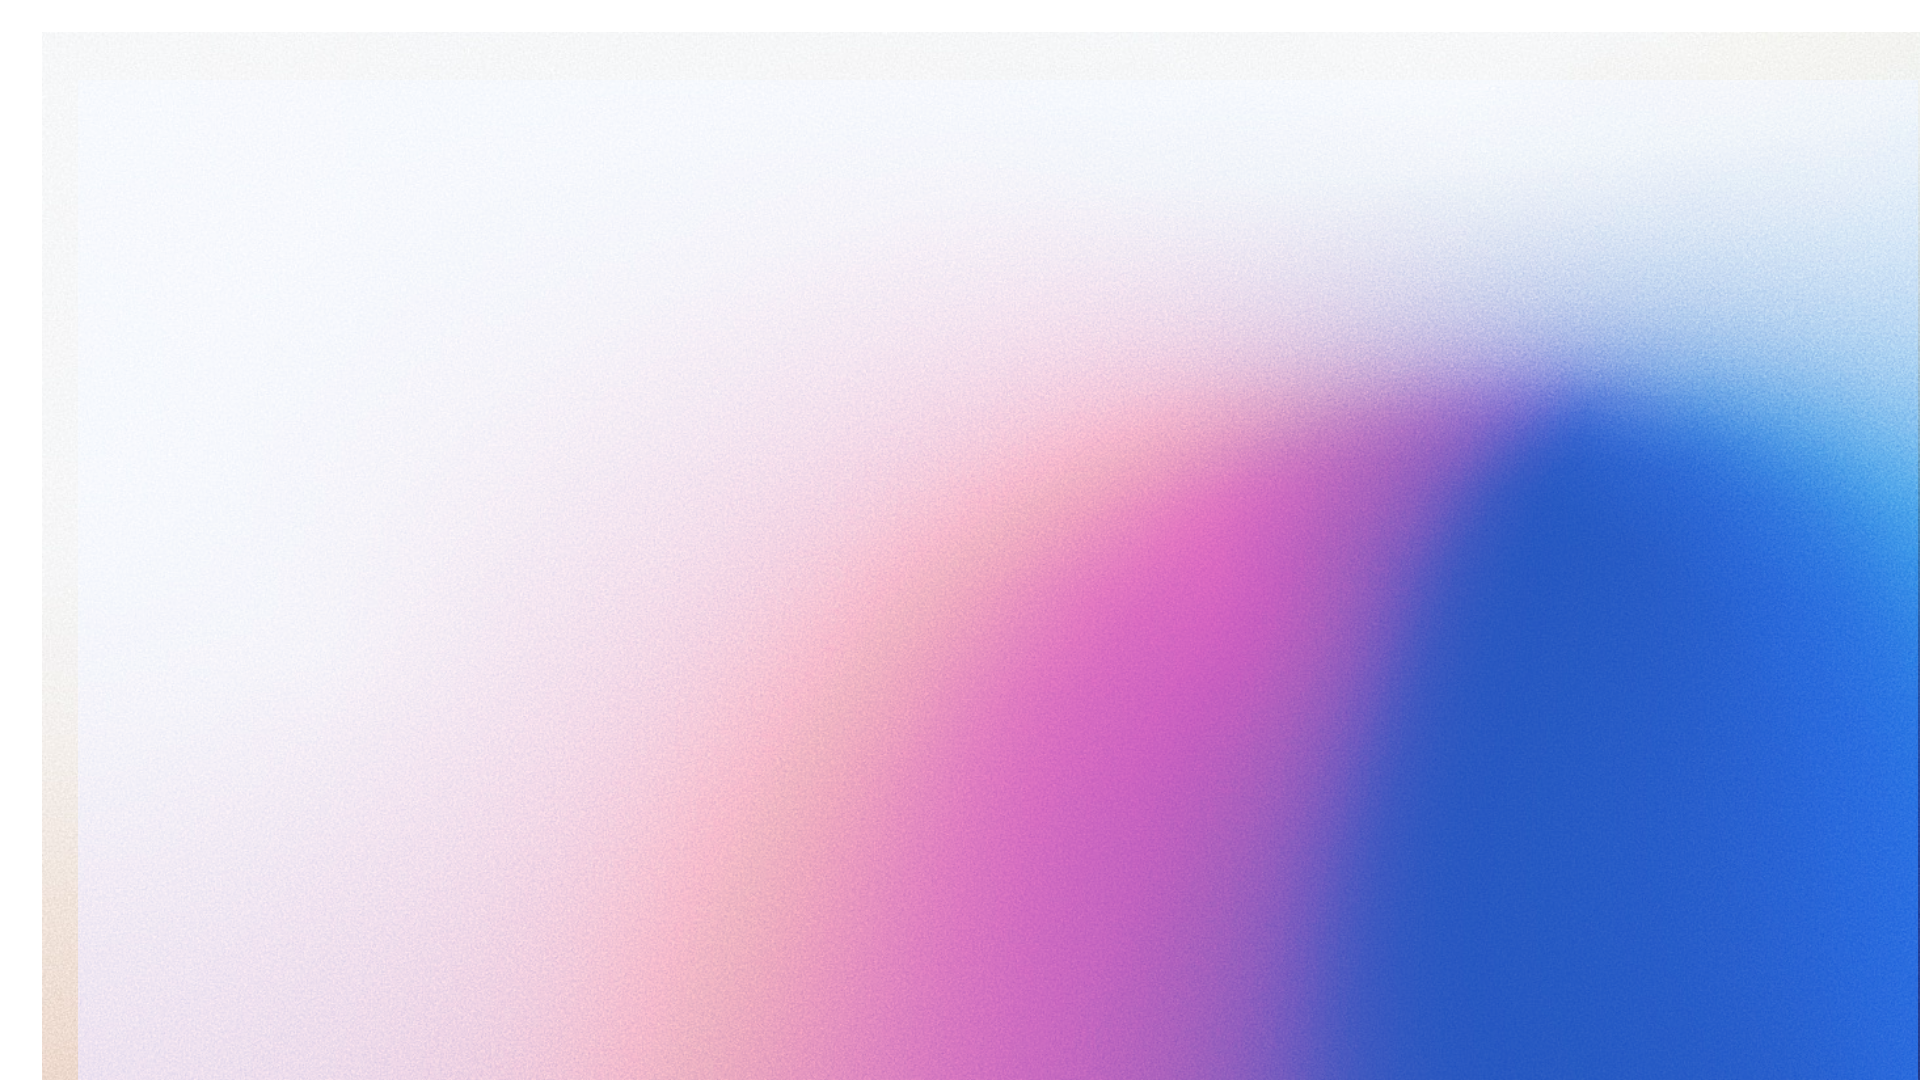
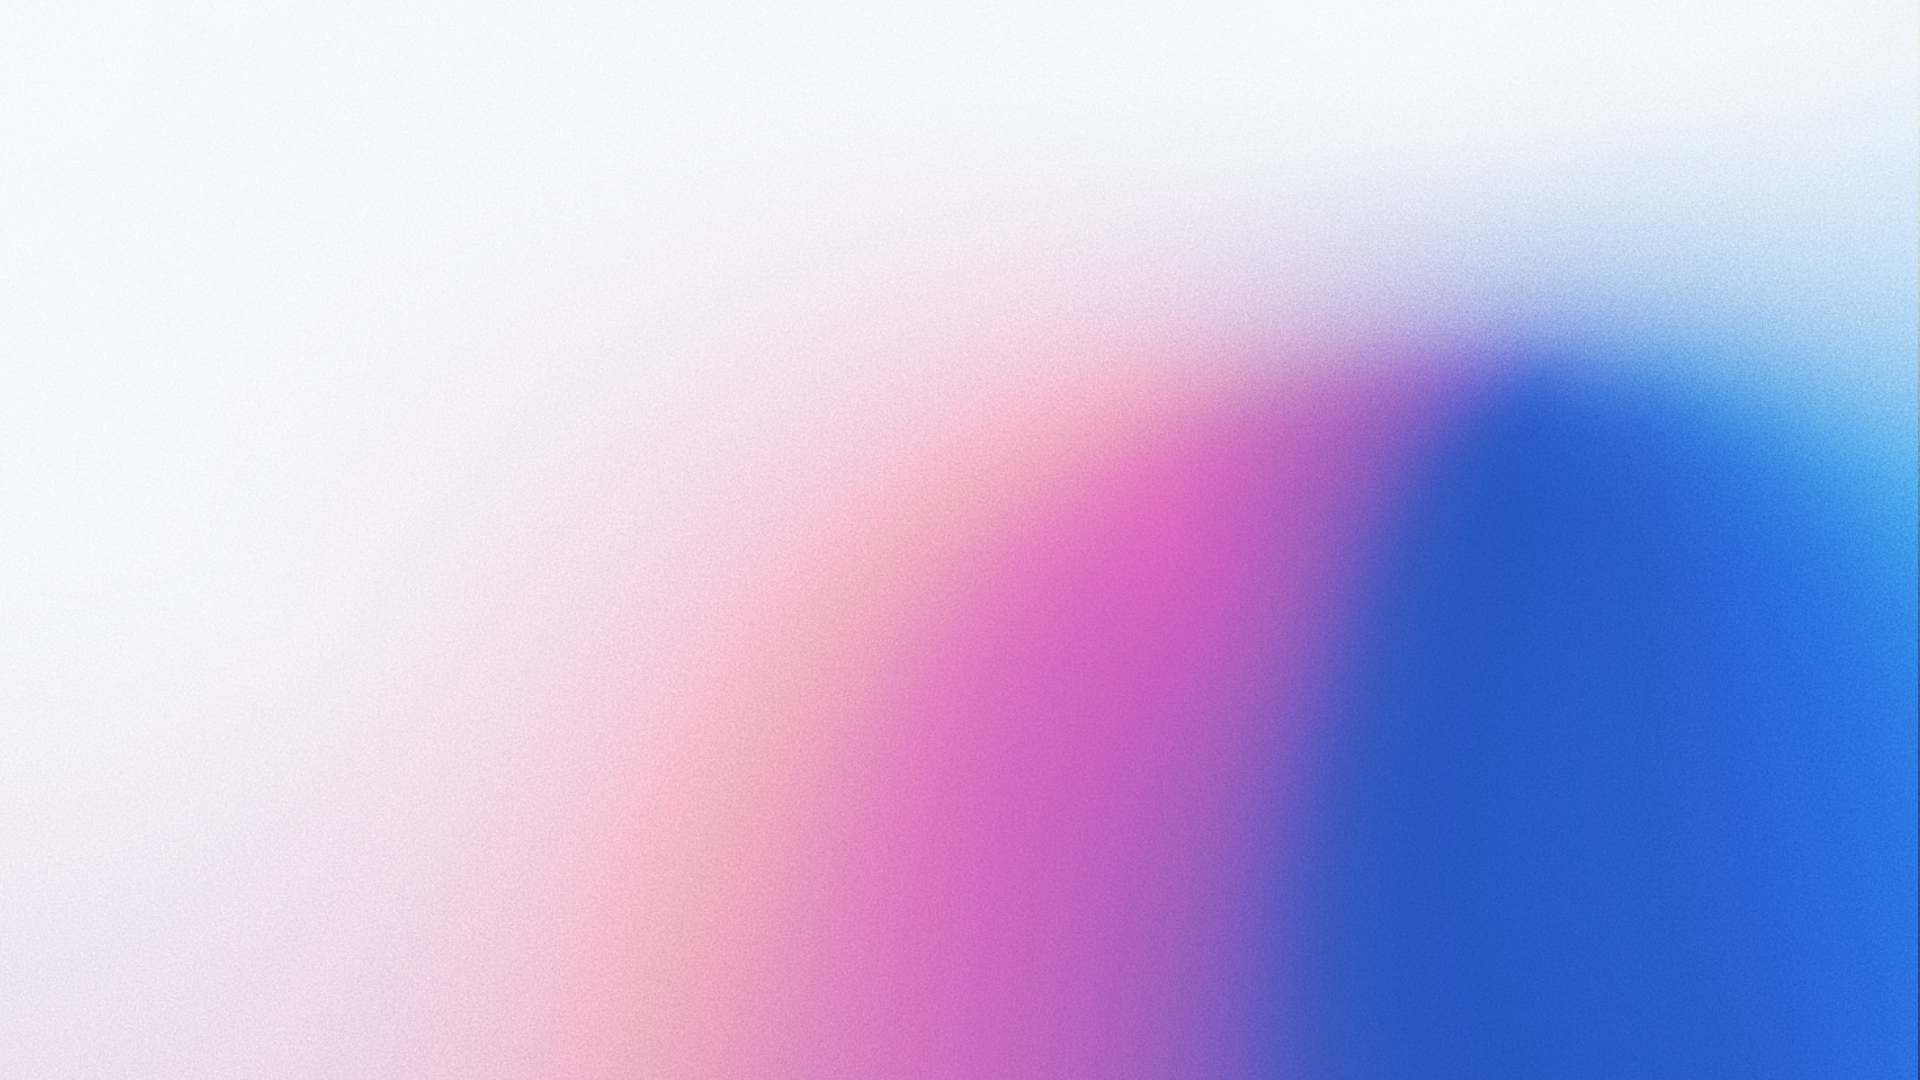
heroを調整

Changed region(s): [[0.4375, 0.2444, 0.9688, 1.0], [0.0, 0.7944, 0.0625, 1.0]]

diff --git a/src/components/Hero/style.ts b/src/components/Hero/style.ts
@@ -20,8 +20,8 @@ export const HeroStyle = styled(HeroComponent)`
     &::after {
       content: '';
       display: block;
-      width: 95%;
-      height: 95%;
+      width: 100%;
+      height: 100%;
       border: solid 10px ${Colors.primary};
       position: absolute;
       top: 50%;
@@ -31,11 +31,10 @@ export const HeroStyle = styled(HeroComponent)`
 
     > .hero {
       position: absolute;
-      bottom: 6%;
+      bottom: 10%;
       left: 6%;
       z-index: 1;
       @media ${max(BreakPoints.md)} {
-        bottom: 8%;
         left: 10%;
       }
 
@@ -45,6 +44,10 @@ export const HeroStyle = styled(HeroComponent)`
         &.copyEn {
           font-size: ${CopyFontSize.copyEn};
           font-weight: ${FontWeight.thin};
+
+          @media ${max(BreakPoints.lg)} {
+            font-size: ${FontSize.lg};
+          }
 
           @media ${max(BreakPoints.md)} {
             font-size: ${FontSize.lg};
@@ -56,6 +59,10 @@ export const HeroStyle = styled(HeroComponent)`
           font-weight: ${FontWeight.bold};
           color: ${Colors.primary};
 
+          @media ${max(BreakPoints.lg)} {
+            font-size: ${FontSize.lg};
+          }
+
           @media ${max(BreakPoints.md)} {
             font-size: ${FontSize.lg};
           }
@@ -65,6 +72,10 @@ export const HeroStyle = styled(HeroComponent)`
           font-size: ${CopyFontSize.copyJp};
           font-weight: ${FontWeight.bold};
           color: ${Colors.primary};
+
+          @media ${max(BreakPoints.lg)} {
+            font-size: ${FontSize.lg};
+          }
 
           @media ${max(BreakPoints.md)} {
             font-size: ${FontSize.sm};
